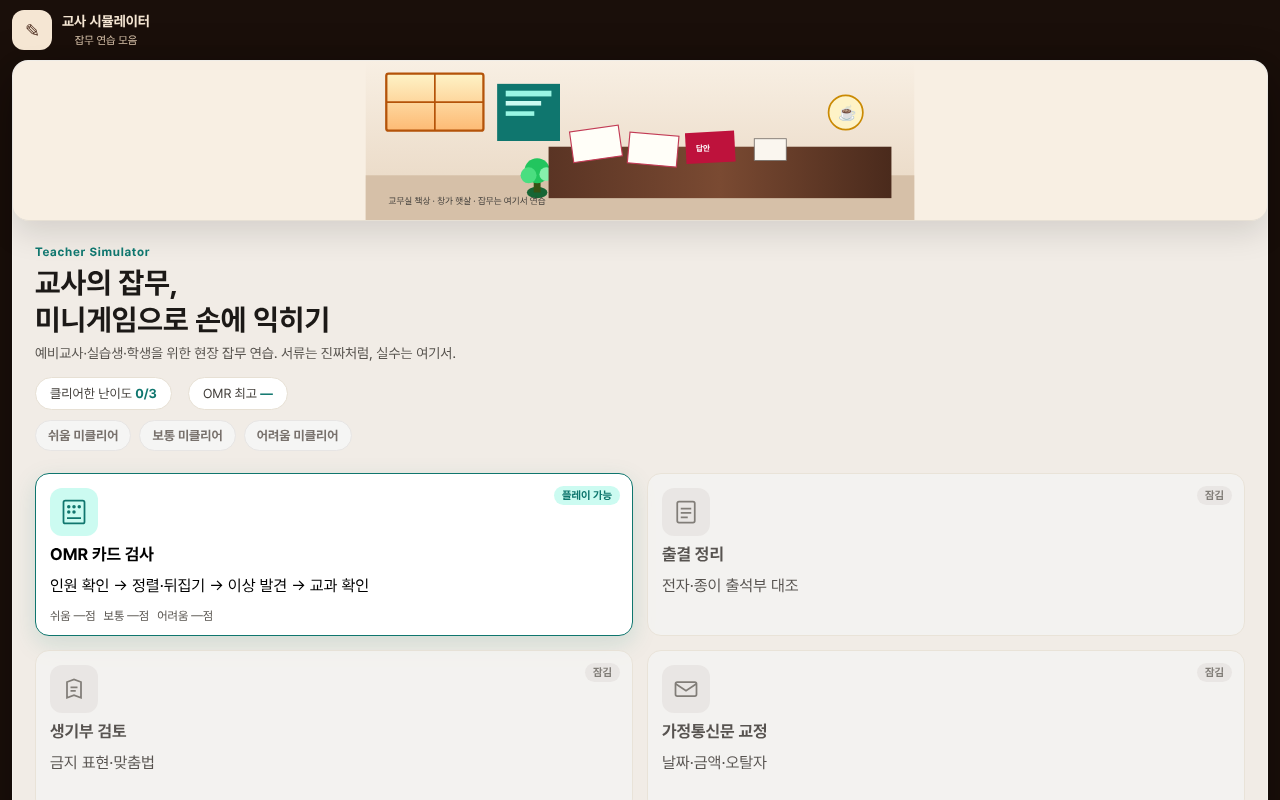
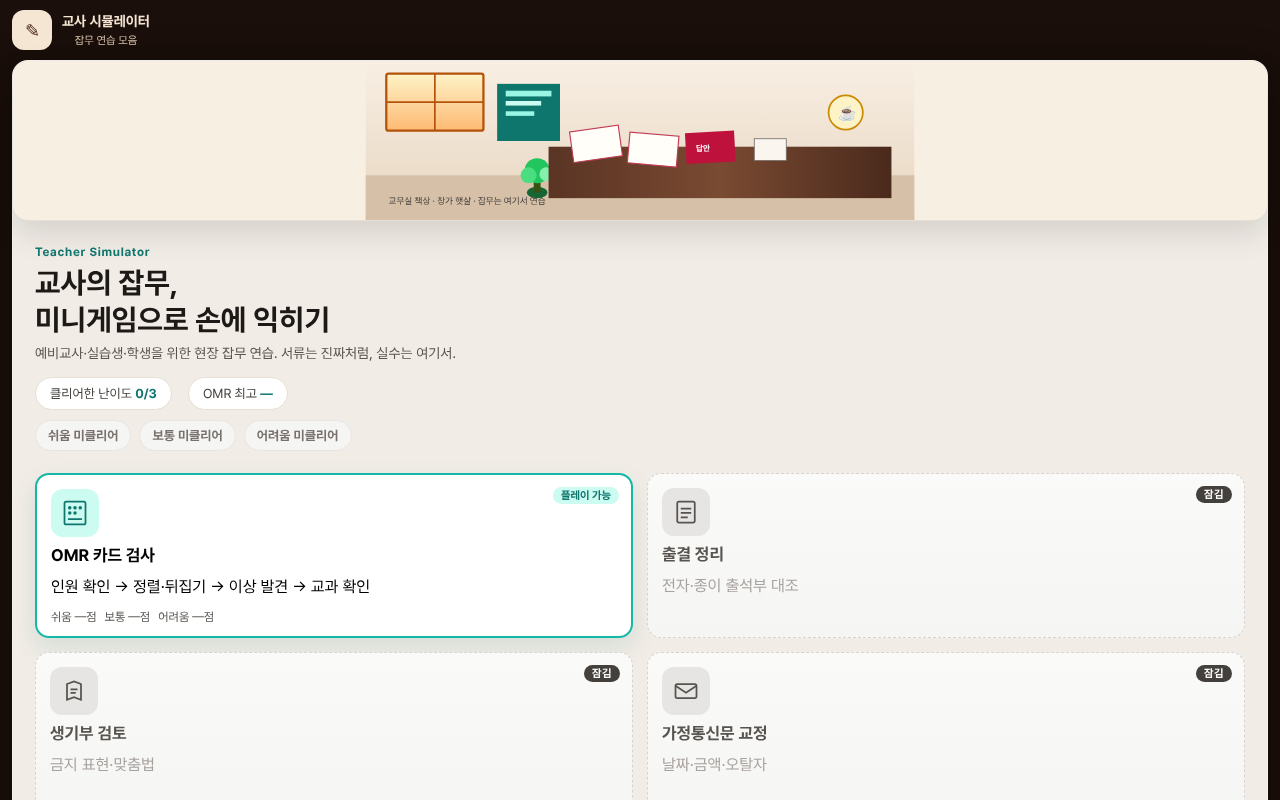
Round 0050: hub locked tiles and dark foot
Clarify locked vs open game tiles and put the roadmap note
on a high-contrast foot bar.

diff --git a/src/style.css b/src/style.css
@@ -1732,3 +1732,57 @@ kbd {
   font-size: 15px !important;
   color: #1c1917;
 }
+
+
+/* 0050 hub locked tiles + foot */
+.game-tile.locked {
+  opacity: 1;
+  background: linear-gradient(180deg, #fafaf9, #f5f5f4);
+  border: 1px dashed #d6d3d1;
+  position: relative;
+}
+.game-tile.locked .lock {
+  display: inline-block;
+  margin: 0 0 6px;
+  padding: 2px 8px;
+  border-radius: 999px;
+  background: #44403c;
+  color: #fafaf9;
+  font-size: 11px;
+  font-weight: 800;
+  letter-spacing: 0.04em;
+}
+.game-tile.locked h2 {
+  color: #57534e;
+}
+.game-tile.locked p {
+  color: #a8a29e;
+}
+.game-tile.open {
+  border: 2px solid #14b8a6;
+  box-shadow: 0 10px 24px rgba(15,118,110,0.12);
+}
+.game-tile.open:hover {
+  transform: translateY(-2px);
+  box-shadow: 0 14px 28px rgba(15,118,110,0.18);
+}
+.hub-foot {
+  margin-top: auto;
+  padding: 12px 14px;
+  border-radius: 12px;
+  background: #1c1917;
+  color: #e7e5e4;
+  font-size: 13px;
+  line-height: 1.45;
+}
+.hub-foot p { margin: 0; color: inherit; }
+.tile-badge {
+  display: inline-block;
+  padding: 2px 8px;
+  border-radius: 999px;
+  background: #ccfbf1;
+  color: #0f766e;
+  font-size: 11px;
+  font-weight: 800;
+  margin-bottom: 6px;
+}

diff --git a/docs/issues/0050-hub-locked-foot.md b/docs/issues/0050-hub-locked-foot.md
@@ -1,0 +1,10 @@
+# 0050 Hub locked tiles + foot
+
+## Critique
+Locked tiles looked disabled-washed; foot note low contrast.
+
+## Fix
+Dashed locked cards with lock pill; open tile teal border; dark hub foot.
+
+## Verify
+e2e OK · viewport OK

diff --git a/docs/ROUNDLOG.md b/docs/ROUNDLOG.md
@@ -76,3 +76,6 @@
 
 ## Round 0049 (03:07 KST)
 - Inspection numbered dots + student card
+
+## Round 0050 (03:07 KST)
+- Hub locked tiles + dark foot
